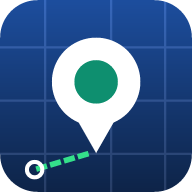
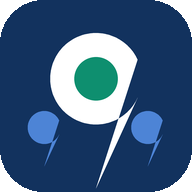
Add files via upload

diff --git a/index.html b/index.html
@@ -6,7 +6,8 @@
 <meta name="theme-color" content="#12325e">
 <title>MyDealer</title>
 <link rel="manifest" href="manifest.webmanifest">
-<link rel="icon" href="icon-192.png">
+<link rel="icon" href="icon.svg" type="image/svg+xml">
+<link rel="icon" href="icon-192.png" sizes="192x192">
 <link rel="apple-touch-icon" href="icon-192.png">
 <link rel="stylesheet" href="vendor/leaflet.css">
 <link rel="stylesheet" href="vendor/markercluster.css">
@@ -26,6 +27,8 @@ input,select,textarea{font:inherit;color:var(--ink)}
 header{position:sticky;top:0;z-index:900;background:var(--pri);color:#fff;padding:10px 12px 8px;padding-top:calc(10px + env(safe-area-inset-top))}
 .hrow{display:flex;align-items:center;gap:8px}
 .logo{font-size:18px;font-weight:800;letter-spacing:.3px}
+.mark{flex:0 0 auto;width:26px;height:26px;display:block}
+.mark svg{width:100%;height:100%;display:block}
 .logo small{font-weight:400;opacity:.75;font-size:11px;margin-left:6px}
 #count{margin-left:auto;font-size:12px;background:rgba(255,255,255,.15);padding:3px 9px;border-radius:99px}
 .srow{display:flex;gap:8px;margin-top:8px}
@@ -213,7 +216,7 @@ nav button i{font-size:18px}
 <body>
 <header>
   <div class="hrow">
-    <span class="logo">MyDealer<small id="whoami">bayi rehberi</small></span>
+    <span class="mark" aria-hidden="true"><svg viewBox="0 0 512 512"><path d="M118 340a44 44 0 1 1 88 0c0 30-44 103-44 103S118 370 118 340z" fill="#4d84d6"/><path d="M306 340a44 44 0 1 1 88 0c0 30-44 103-44 103s-44-73-44-103z" fill="#4d84d6"/><path d="M134 210a122 122 0 1 1 244 0c0 84-122 292-122 292S134 294 134 210z" fill="#fff"/><circle cx="256" cy="210" r="58" fill="#0e8f6f"/></svg></span><span class="logo">MyDealer<small id="whoami">bayi rehberi</small></span>
     <button id="btnSync" title="Sunucudan yenile" style="display:none;font-size:16px;padding:2px 8px">⟳</button>
     <span id="count"></span>
   </div>

diff --git a/sw.js b/sw.js
@@ -1,7 +1,7 @@
 const CACHE = 'mydealer-v7';
 const ASSETS = [
   './', './index.html', './app.js', './data.js', './manifest.webmanifest',
-  './icon-192.png', './icon-512.png',
+  './icon-192.png', './icon-512.png', './icon-maskable.png', './icon.svg',
   './vendor/leaflet.js', './vendor/leaflet.css',
   './vendor/markercluster.js', './vendor/markercluster.css', './vendor/markercluster.default.css'
 ];
